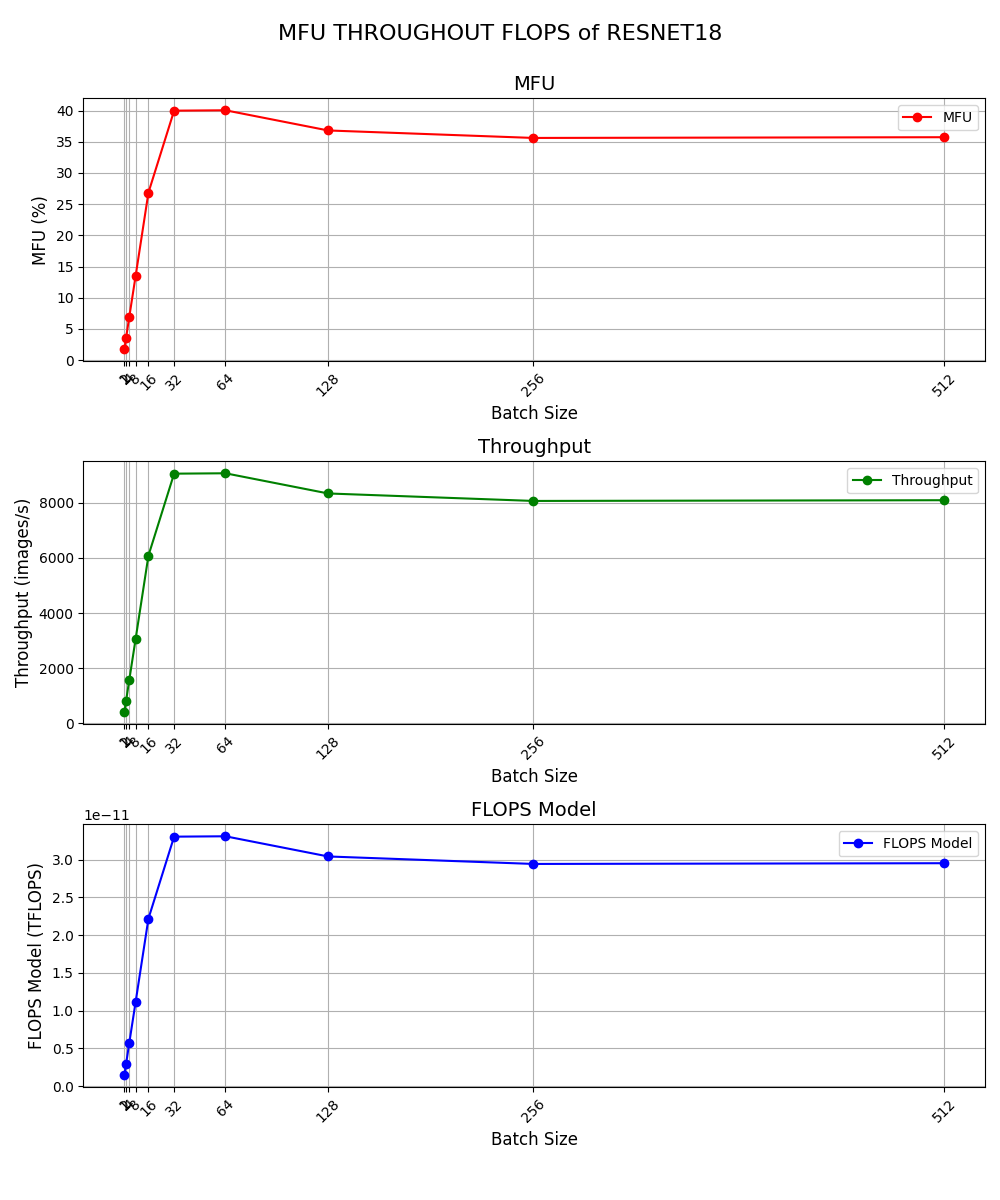
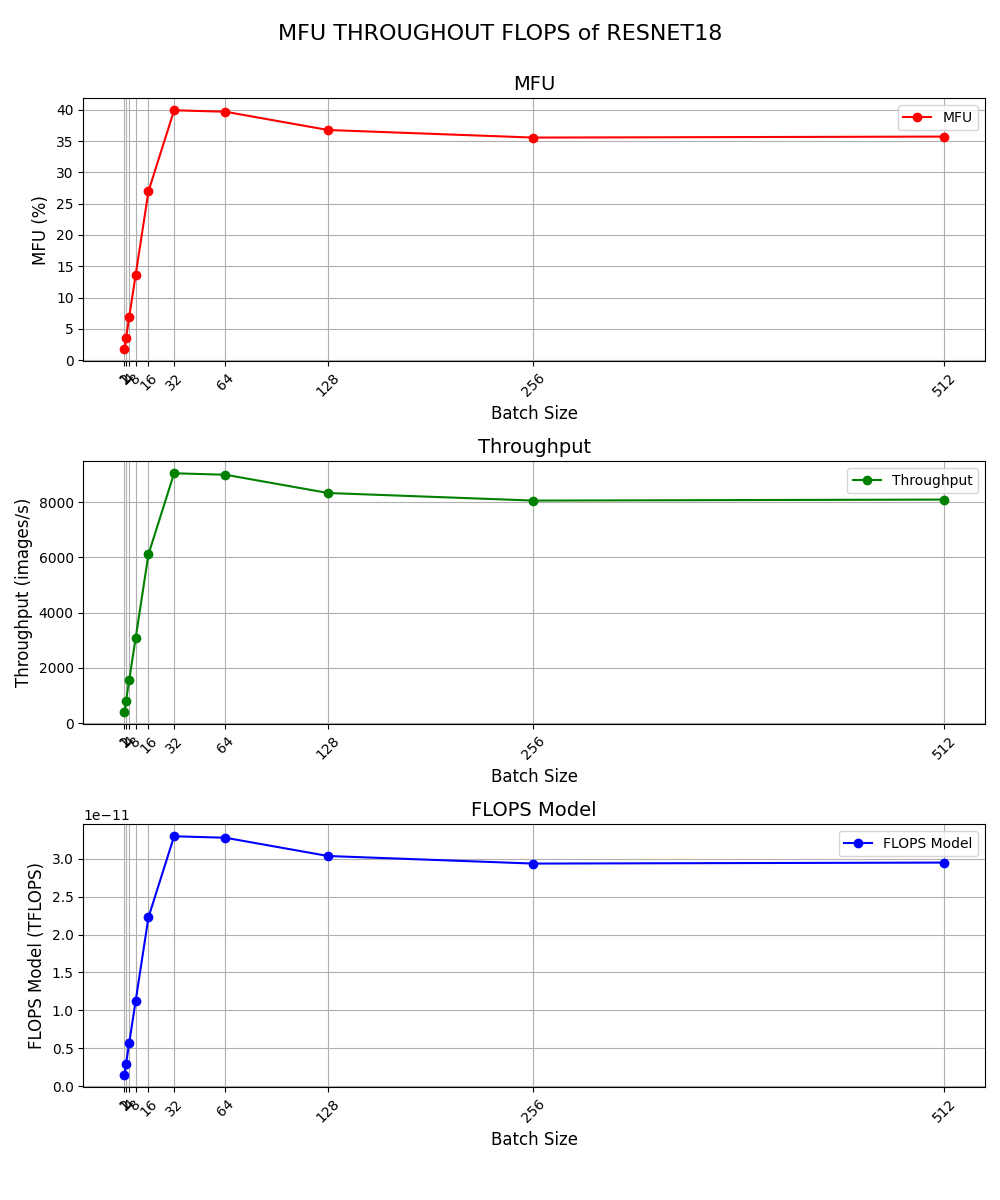
debug

diff --git a/MFU4models/main_ddp_spawn.py b/MFU4models/main_ddp_spawn.py
@@ -60,7 +60,7 @@ def main_ddp(rank, world_size):
         print("batch_size: " + str(batch_size))
         # 模拟推理的时间测试
         val_sampler = torch.utils.data.distributed.DistributedSampler(my_trainset)
-        val_loader = torch.utils.data.DataLoader(my_trainset, batch_size=batch_size, sampler=val_sampler, shuffle=False, num_workers=4, pin_memory=True)
+        val_loader = torch.utils.data.DataLoader(my_trainset, batch_size=batch_size, sampler=val_sampler, shuffle=False, num_workers=1, pin_memory=True)
         val_loader.sampler.set_epoch(0)
         time_list = []
         with torch.no_grad():
@@ -71,6 +71,7 @@ def main_ddp(rank, world_size):
                         data = data.to(cuda_device, non_blocking=True)
                     data = data.to(input_dtype)
                     prediction = model_inference(data)
+                    torch.cuda.synchronize()
                     if i >= 40:
                         break
                     time_end = time.time()
@@ -82,6 +83,7 @@ def main_ddp(rank, world_size):
                         data = data.to(cuda_device, non_blocking=True)
                     data = data.to(input_dtype)
                     prediction = model_inference(data)
+                    torch.cuda.synchronize()
                     if i >= 40:
                         break
         if rank == 0:

diff --git a/MFU4models/main_ddp.py b/MFU4models/main_ddp.py
@@ -67,6 +67,7 @@ def main(args):
             prediction = model_inference_ddp(data)
             time_end = time.time()
             time_list.append(time_end - time_begin)
+            torch.cuda.synchronize()
             if i >= 40:
                 break
         time_list = time_list[10:] # 抛弃前10次
